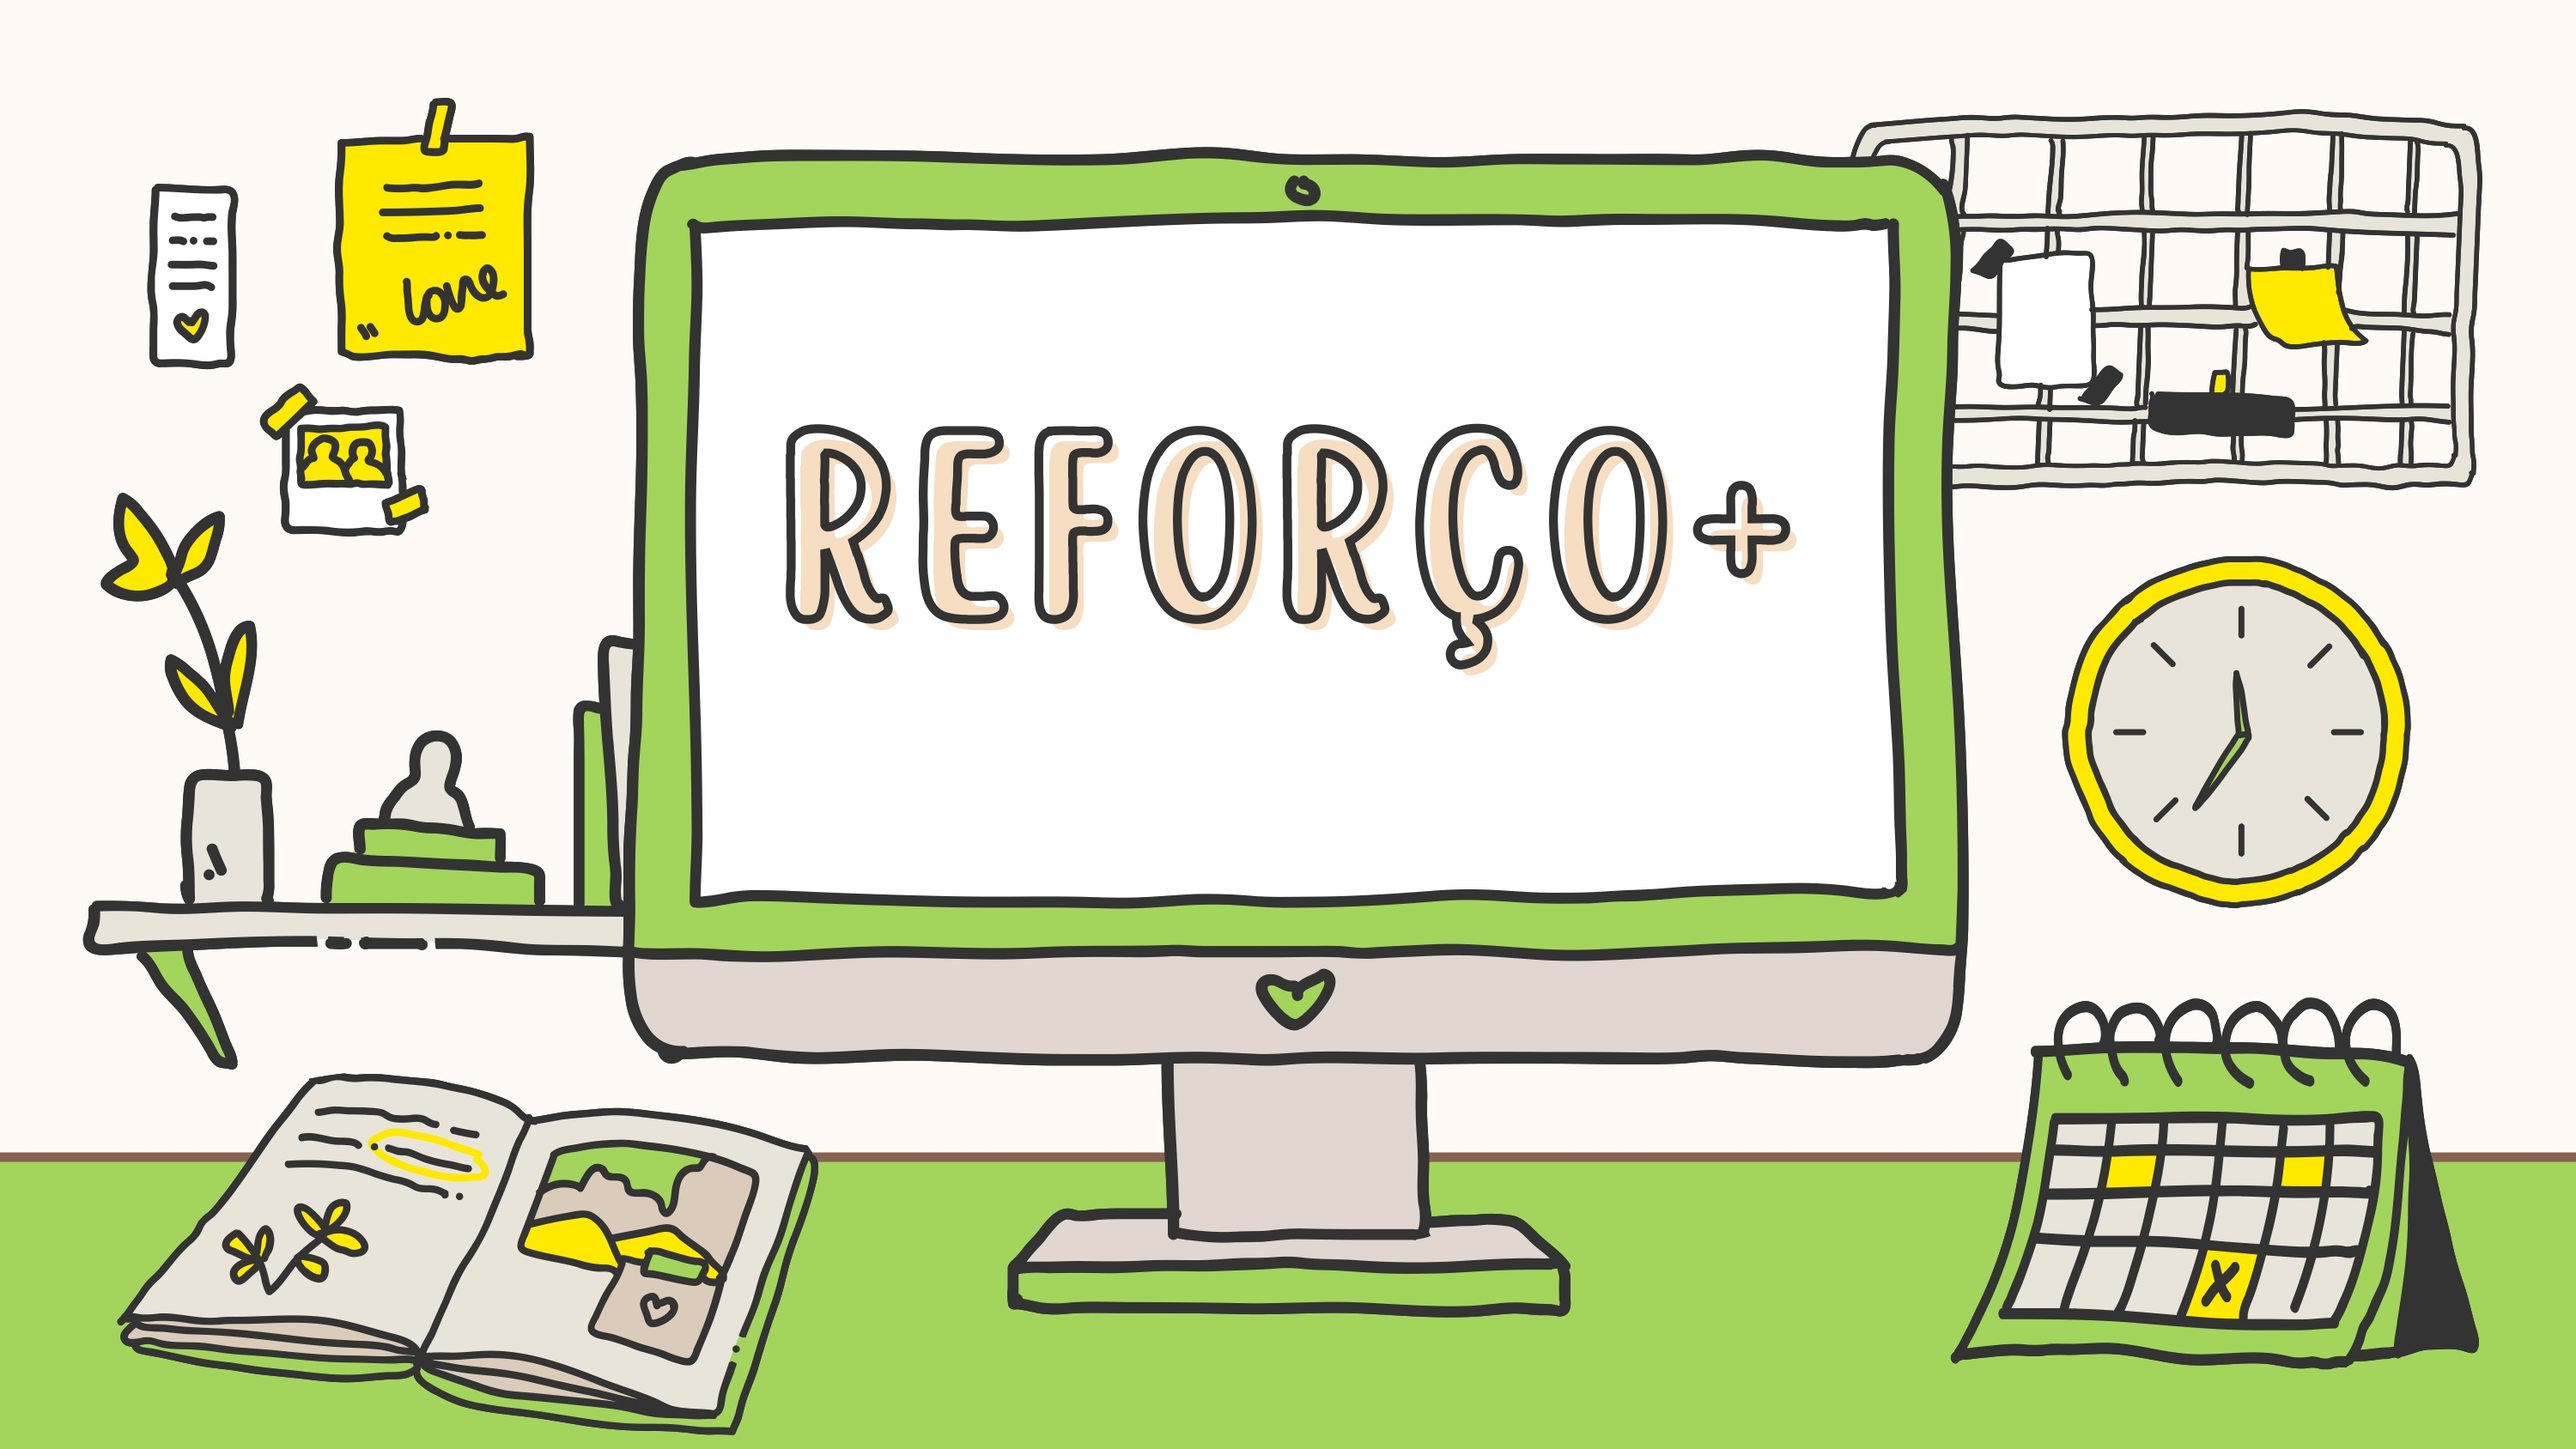
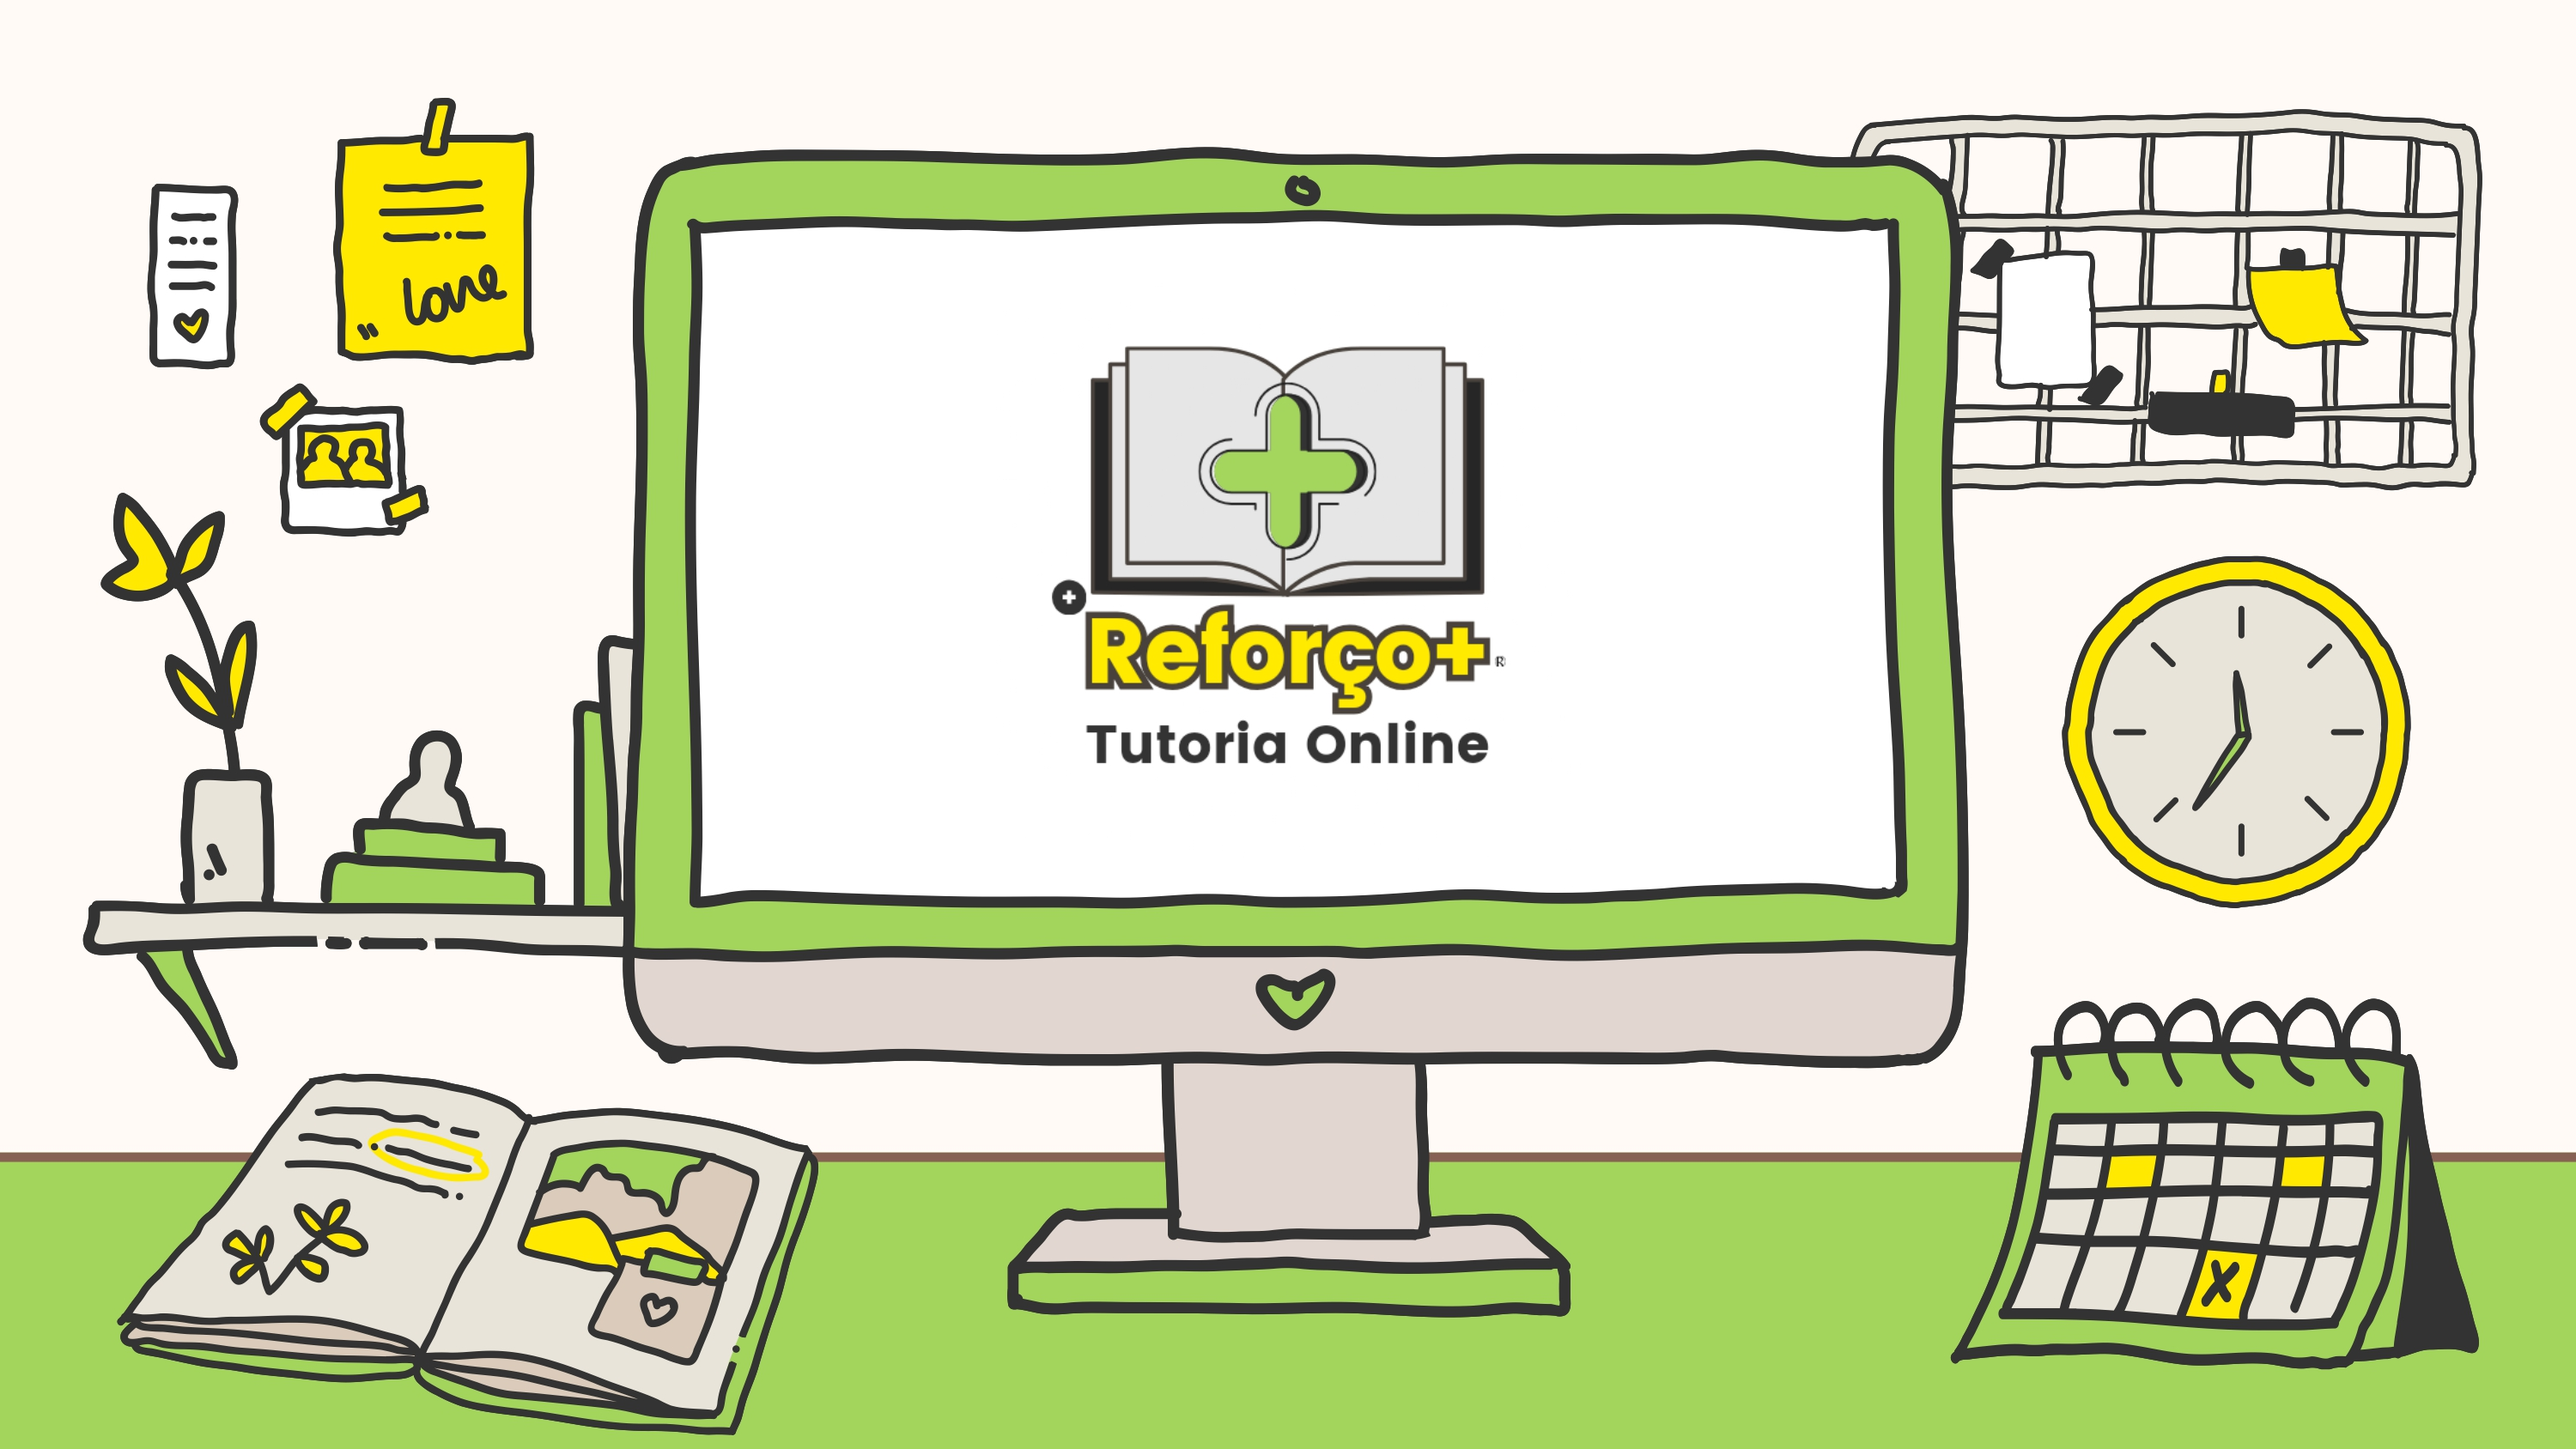
update index

Changed region(s): [[0.279, 0.2156, 0.713, 0.5237]]

diff --git a/index.html b/index.html
@@ -37,7 +37,7 @@
       <!--INICIO LOGO-->
       <div class="logo">
         <a href="index.html">
-          <img src="assets/img/LOGO.png" alt="Logo" width="80px" />
+          <img src="assets/img/Cópia de A4D65E.png" alt="Logo" width="65px" />
         </a>
       </div>
       <!--FIM LOGO-->

diff --git a/assets/style.css b/assets/style.css
@@ -67,7 +67,8 @@ button:hover {
 
 header {
   padding: 40px 4%;
-  padding-top: 10px;
+  padding-top: 5px;
+  padding-bottom: 1px;
 }
 
 header .interface {
